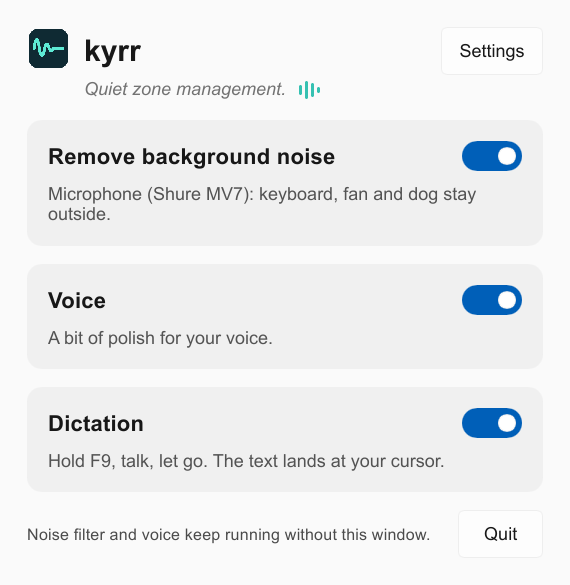
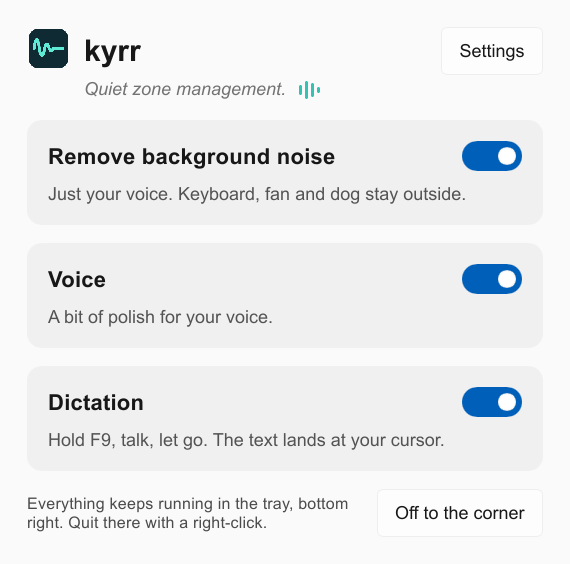
Thank the many more; fresh screenshots and social preview
About ends with the work of many more not named here. The README shots
and the social preview show the current window and the two-column
settings. The preview example takes a scale (the social preview's window
is 1.2711).

diff --git a/crates/kyrr-app/examples/preview.rs b/crates/kyrr-app/examples/preview.rs
@@ -1,5 +1,7 @@
 //! Renders the window headless into raw RGBA files for checking the layout
-//! without a display: `cargo run --example preview -- <out-dir> [de|en]`.
+//! without a display: `cargo run --example preview -- <out-dir> [de|en] [scale]`.
+//! The scale defaults to 1.5 (the README shots); the social preview's window
+//! is 1.2711 (483 px wide).
 //! Convert with ImageMagick: `magick -size WxH -depth 8 rgba:main.rgba main.png`.
 
 use std::rc::Rc;
@@ -18,13 +20,14 @@ impl Platform for Headless {
     }
 }
 
-const SCALE: f32 = 1.5;
+const DEFAULT_SCALE: f32 = 1.5;
 
 fn render(window: &MinimalSoftwareWindow, ui: &MainWindow, path: &str) {
+    let scale = ui.window().scale_factor();
     ui.show().unwrap();
-    let w = (ui.get_page_width() * SCALE) as u32;
+    let w = (ui.get_page_width() * scale) as u32;
     window.set_size(PhysicalSize::new(w, 100));
-    let h = (ui.get_content_height() * SCALE).ceil() as u32;
+    let h = (ui.get_content_height() * scale).ceil() as u32;
     window.set_size(PhysicalSize::new(w, h));
     let mut buf = vec![PremultipliedRgbaColor::default(); (w * h) as usize];
     window.request_redraw();
@@ -43,7 +46,8 @@ fn main() {
     let lang = args.get(2).cloned().unwrap_or_else(|| "de".into());
     let window = MinimalSoftwareWindow::new(RepaintBufferType::NewBuffer);
     slint::platform::set_platform(Box::new(Headless(window.clone()))).unwrap();
-    window.dispatch_event(WindowEvent::ScaleFactorChanged { scale_factor: SCALE });
+    let scale = args.get(3).and_then(|s| s.parse().ok()).unwrap_or(DEFAULT_SCALE);
+    window.dispatch_event(WindowEvent::ScaleFactorChanged { scale_factor: scale });
 
     let ui = MainWindow::new().unwrap();
     if let Err(e) = slint::select_bundled_translation(&lang) {

diff --git a/README.md b/README.md
@@ -35,7 +35,7 @@ What it does:
   <img src="docs/screenshots/main.png" width="380" alt="kyrr's window: noise filter, voice and dictation, each with one switch">
 </p>
 <p align="center">
-  <img src="docs/screenshots/settings.png" width="760" alt="Settings: noise strength and model, voice sound, volume, S sounds, low cut, dictation key, level check with before/after test, language and autostart">
+  <img src="docs/screenshots/settings.png" width="760" alt="Settings in two columns: noise strength and model, voice sound, volume, S sounds, low cut, language and autostart; dictation key, level check with before/after test and listening, about">
 </p>
 
 Status: early, first public release (0.2.0).
